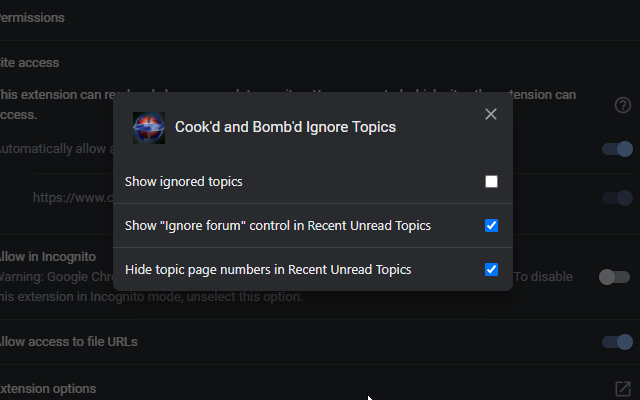
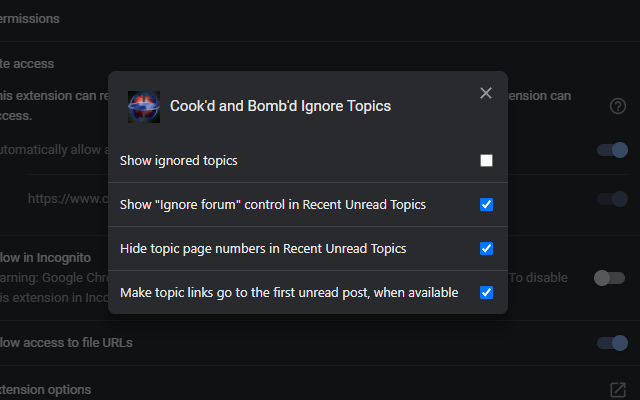
Restore "Make topic links go to the first unread post"

diff --git a/cookdandbombdignoretopics.user.js b/cookdandbombdignoretopics.user.js
@@ -2,7 +2,7 @@
 // @name        Cook'd and Bomb'd Ignore Topics
 // @description Ignore topics and forums, and other topic list tweaks
 // @namespace   https://github.com/insin/greasemonkey/
-// @version     7
+// @version     8
 // @match       https://www.cookdandbombd.co.uk/forums/index.php?board*
 // @match       https://www.cookdandbombd.co.uk/forums/index.php?action=unread*
 // @grant       GM.registerMenuCommand
@@ -24,6 +24,7 @@ let config = {
   // Set this to false if you're done hiding forums in Recent Unread Topics
   showIgnoreForumControl: true,
   showIgnoredTopics: false,
+  topicLinksNewPost: true,
 }
 
 function loadIgnoreConfig() {
@@ -151,6 +152,13 @@ function ForumPage() {
         e.preventDefault()
         toggleIgnoreForum(forumId)
       })
+    }
+
+    if (config.topicLinksNewPost) {
+      let $newPostLink = $topicRow.querySelector('a[id^=newicon]')
+      if ($newPostLink) {
+        $topicLink.href = $newPostLink.href
+      }
     }
 
     return api

diff --git a/options.html b/options.html
@@ -22,8 +22,14 @@
     </section>
     <section class="checkbox">
       <label>
-        <span>Hide topic page numbers in Recent Unread Topics</span>
+        Hide topic page numbers in Recent Unread Topics
         <input type="checkbox" name="hideRecentUnreadTopicsPageNumbers">
+      </label>
+    </section>
+    <section class="checkbox">
+      <label>
+        Make topic links go to the first unread post, when available
+        <input type="checkbox" name="topicLinksNewPost">
       </label>
     </section>
   </form>

diff --git a/options.js b/options.js
@@ -4,6 +4,7 @@ let config = {
   hideRecentUnreadTopicsPageNumbers: true,
   showIgnoreForumControl: true,
   showIgnoredTopics: false,
+  topicLinksNewPost: true,
 }
 
 chrome.storage.local.get((storedConfig) => {

diff --git a/README.md b/README.md
@@ -30,9 +30,9 @@ Ignored topics will be displayed with a fetching reddish highlight and clicking 
 
 ## Other Tweaks
 
-By default, this extension also hides topic page number links in the Recent Unread Topics view.
+By default, this extension also hides topic page number links in the Recent Unread Topics view and makes topic links go to the first unread post (when available).
 
-This can be configured in its options:
+These can be configured in its options:
 
 | Firefox | Chrome |
 |:-------:|:------:|
